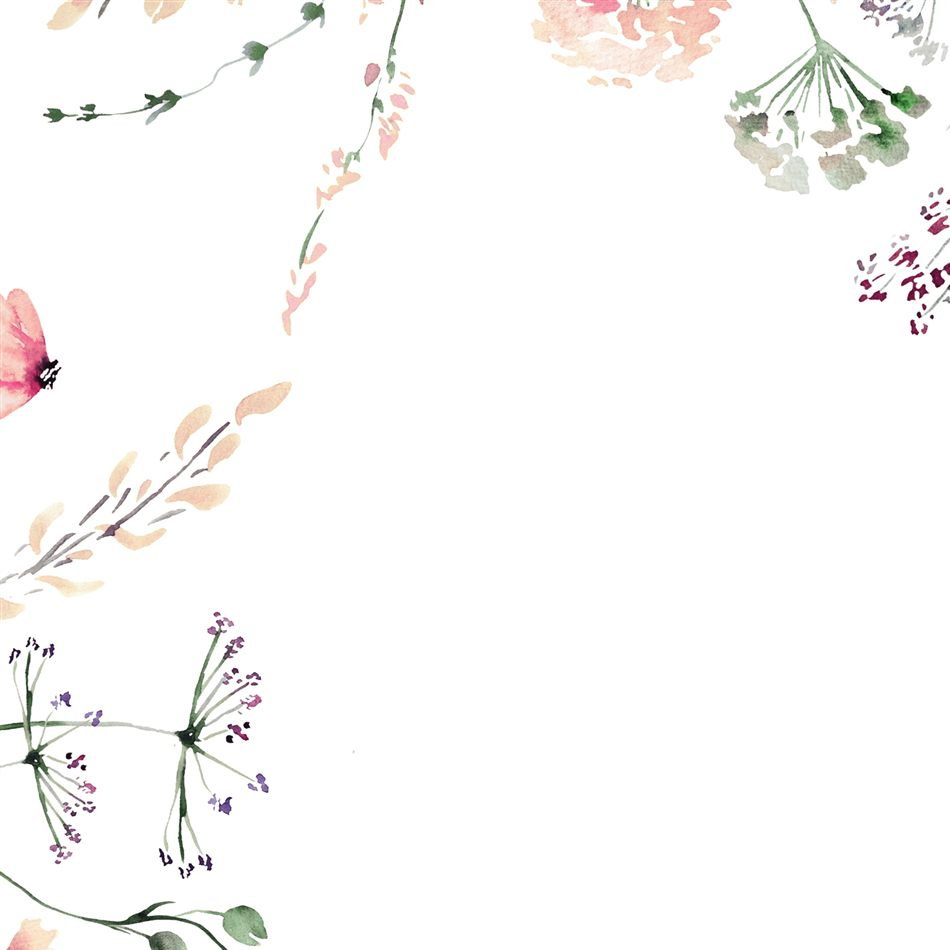
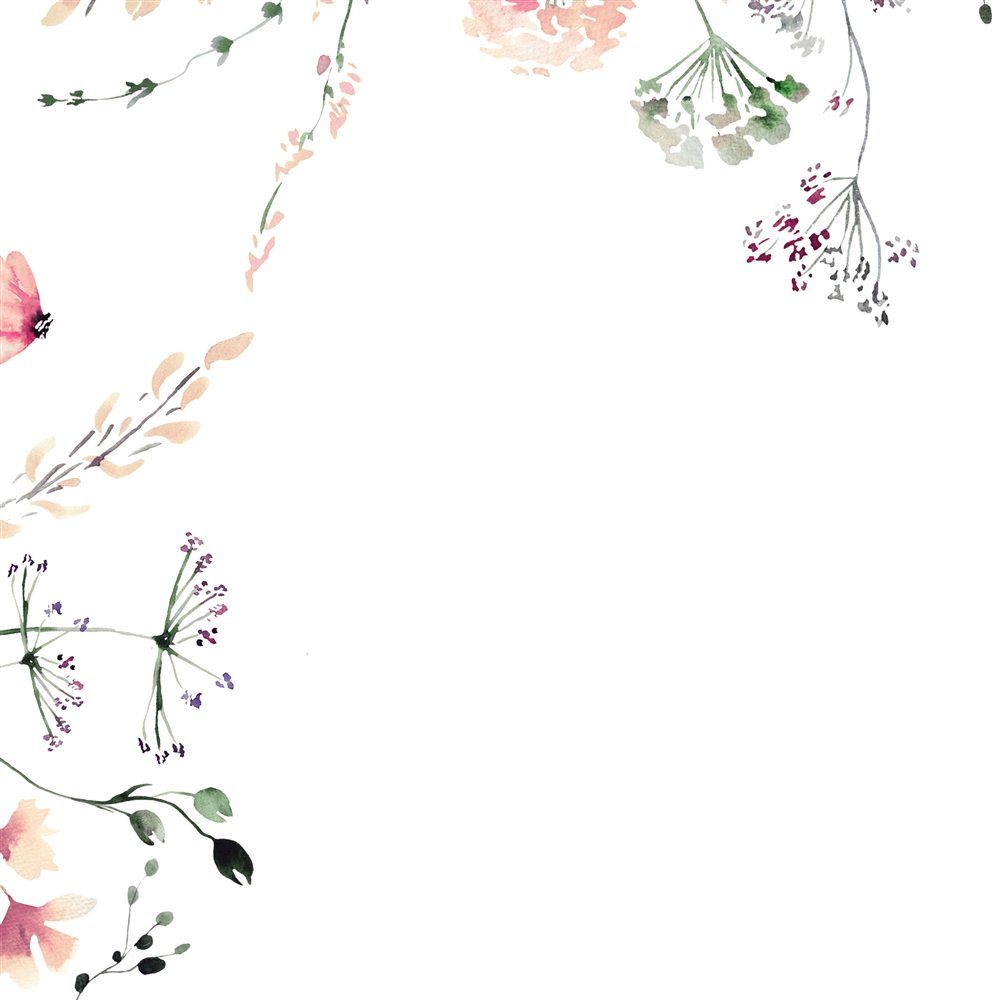
Blumen dezenter in den Hintergrund, Astenden weich auslaufen lassen
- Groesserer Eckausschnitt (2300px statt 1900px Quelle), dadurch laengere
  Aeste und mehr Raum zum Ausblenden
- Radialer Verlauf als Maske: die nach innen wachsenden Zweige loesen sich
  sanft auf, statt an der Zuschnittkante abrupt zu enden
- Deckkraft von 70 auf 50 Prozent gesenkt, Grafik etwas groesser -> liegt
  klar als Hintergrund hinter dem Inhalt
- Einleitungstexte des Formulars neu formuliert

diff --git a/src/components/Blumen.tsx b/src/components/Blumen.tsx
@@ -14,6 +14,18 @@ const POSITION: Record<Corner, string> = {
 };
 
 /**
+ * Weiches Auslaufen zur Bildmitte hin. Der Zuschnitt aus dem Rahmen kann die
+ * nach innen wachsenden Zweige nicht anders als durchschneiden – der
+ * Verlauf loest die Schnittkanten auf, sodass die Aeste sanft im Hintergrund
+ * verschwinden statt abrupt zu enden.
+ *
+ * Der Verlauf sitzt in der Ecke oben links, also in derselben Ecke, an der
+ * die Grafik verankert ist. Spiegelung und Drehung nehmen ihn mit.
+ */
+const FADE =
+  "radial-gradient(circle at top left, #000 34%, rgba(0,0,0,0.55) 56%, rgba(0,0,0,0.18) 70%, transparent 80%)";
+
+/**
  * Dezente Blumen-Dekoration aus dem Brandkit.
  * Die Illustration hat einen weissen Hintergrund – mix-blend-multiply laesst
  * dieses Weiss im creme Seitenhintergrund verschwinden, sodass nur die
@@ -26,14 +38,15 @@ export function Blumen({ corner, fixed = false }: { corner: Corner; fixed?: bool
   return (
     <div
       aria-hidden="true"
-      className={`${fixed ? "fixed" : "absolute"} pointer-events-none z-0 w-44 select-none mix-blend-multiply sm:w-64 lg:w-80 ${POSITION[corner]}`}
+      style={{ WebkitMaskImage: FADE, maskImage: FADE }}
+      className={`${fixed ? "fixed" : "absolute"} pointer-events-none z-0 w-48 select-none mix-blend-multiply sm:w-72 lg:w-[22rem] ${POSITION[corner]}`}
     >
       <Image
         src="/images/blumen-ecke.jpg"
         alt=""
-        width={950}
-        height={950}
-        className="h-auto w-full opacity-70"
+        width={1000}
+        height={1000}
+        className="h-auto w-full opacity-50"
         priority={false}
       />
     </div>

diff --git a/src/app/rsvp/RsvpForm.tsx b/src/app/rsvp/RsvpForm.tsx
@@ -129,11 +129,10 @@ export function RsvpForm() {
   return (
     <>
       <p className="mx-auto mb-3 max-w-md text-center text-primary">
-        Um euch unsere Einladung zukommen zu lassen, bitten wir euch, einmal eure Adresse einzugeben.
+        Damit unsere Einladung den Weg zu euch findet, bitten wir euch um eure Adresse.
       </p>
       <p className="mx-auto mb-10 max-w-md text-center text-sm text-primary/80">
-        Bei Paaren reicht es aus, wenn eine Person die gemeinsame Adresse eingibt. Bitte gebt aber
-        beide Vornamen an.
+        Bei Paaren reicht ein Eintrag. Bitte nennt uns dabei beide Vornamen.
       </p>
 
       <form onSubmit={handleSubmit} noValidate className="space-y-6">
